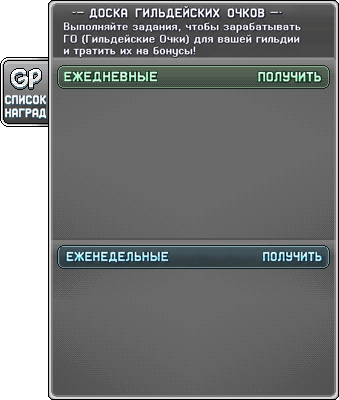
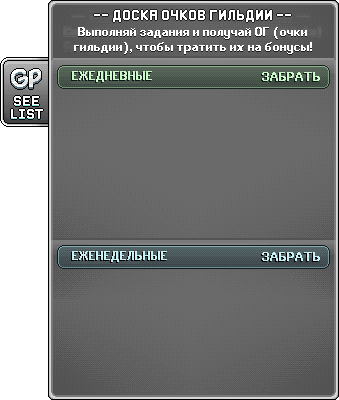
Mod textures, batch 5: guild points board, guild member columns, character creation labels, storage info redrawn crisp
retext: dark_lum per part (how dark the shadow around erased letters may be on textured ground).

diff --git a/tools/retext.py b/tools/retext.py
@@ -806,7 +806,7 @@ def flat_fill(img, rect, limit=110, lo=12):
             px[x, y] = m
 
 
-def text_fill(img, rect, limit=110, anysat=False):
+def text_fill(img, rect, limit=110, anysat=False, dark_lum=60):
     """repaint only the lettering inside rect (light pixels and the dark outline touching
     them) with each row's panel colour; whatever else is there stays"""
     x0, y0, x1, y1 = rect
@@ -814,7 +814,7 @@ def text_fill(img, rect, limit=110, anysat=False):
     light = {(x, y) for y in range(y0, y1) for x in range(x0, x1)
              if px[x, y][3] > 100 and lum(px[x, y]) > 140 and (anysat or max(px[x, y][:3]) - min(px[x, y][:3]) < 60)}
     dark = {(x + dx, y + dy) for x, y in light for dx in (-1, 0, 1) for dy in (-1, 0, 1)
-            if x0 <= x + dx < x1 and y0 <= y + dy < y1 and lum(px[x + dx, y + dy]) < 60}
+            if x0 <= x + dx < x1 and y0 <= y + dy < y1 and lum(px[x + dx, y + dy]) < dark_lum}
     for y in range(y0, y1):
         row = Counter(px[x, y] for x in range(x0, x1) if lum(px[x, y]) < limit and (x, y) not in dark)
         if not row:
@@ -848,7 +848,7 @@ def build_panel(name, sp, src, img, out_dir):
             if p.get('erase') == 'clear':   # text on transparent ground
                 erase(img, r, 'clear')
             elif p.get('erase') == 'text':   # sprites over the text: only its own pixels go
-                text_fill(img, r, p.get('limit', 110), p.get('anysat', False))
+                text_fill(img, r, p.get('limit', 110), p.get('anysat', False), p.get('dark_lum', 60))
             else:
                 flat_fill(img, r, p.get('limit', 110), p.get('lo', 12))
     for p in parts:
